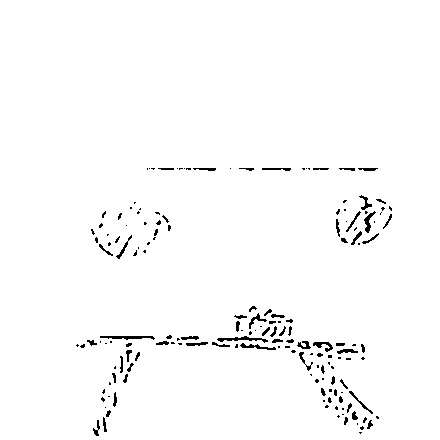
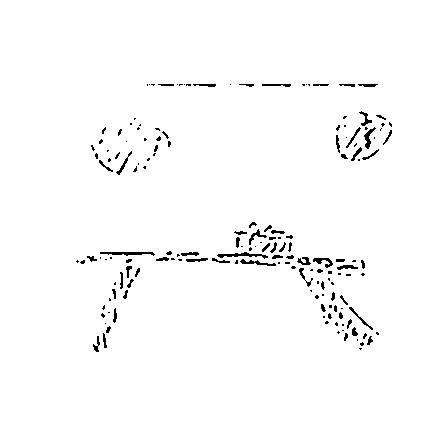
square

diff --git a/prototypes/streamFusion/Scanner/cv2scan.py b/prototypes/streamFusion/Scanner/cv2scan.py
@@ -164,6 +164,7 @@ def getPlayableArray(img):
     imgAdaptiveThre = cv2.bitwise_not(imgAdaptiveThre)
     imgAdaptiveThre = cv2.medianBlur(imgAdaptiveThre, 3)
 
+    # make image square
     imgAdaptiveThre = np.array(makeSquare(
         cv2.cvtColor(imgAdaptiveThre, cv2.COLOR_BGR2BGRA)))
 
@@ -183,7 +184,6 @@ def getPlayableArray(img):
     # percent = perc(rows * columns)
     percent = 95
     n = math.ceil(np.sqrt(rows * columns / meshes))
-
     x = 0
     y = 0
 
